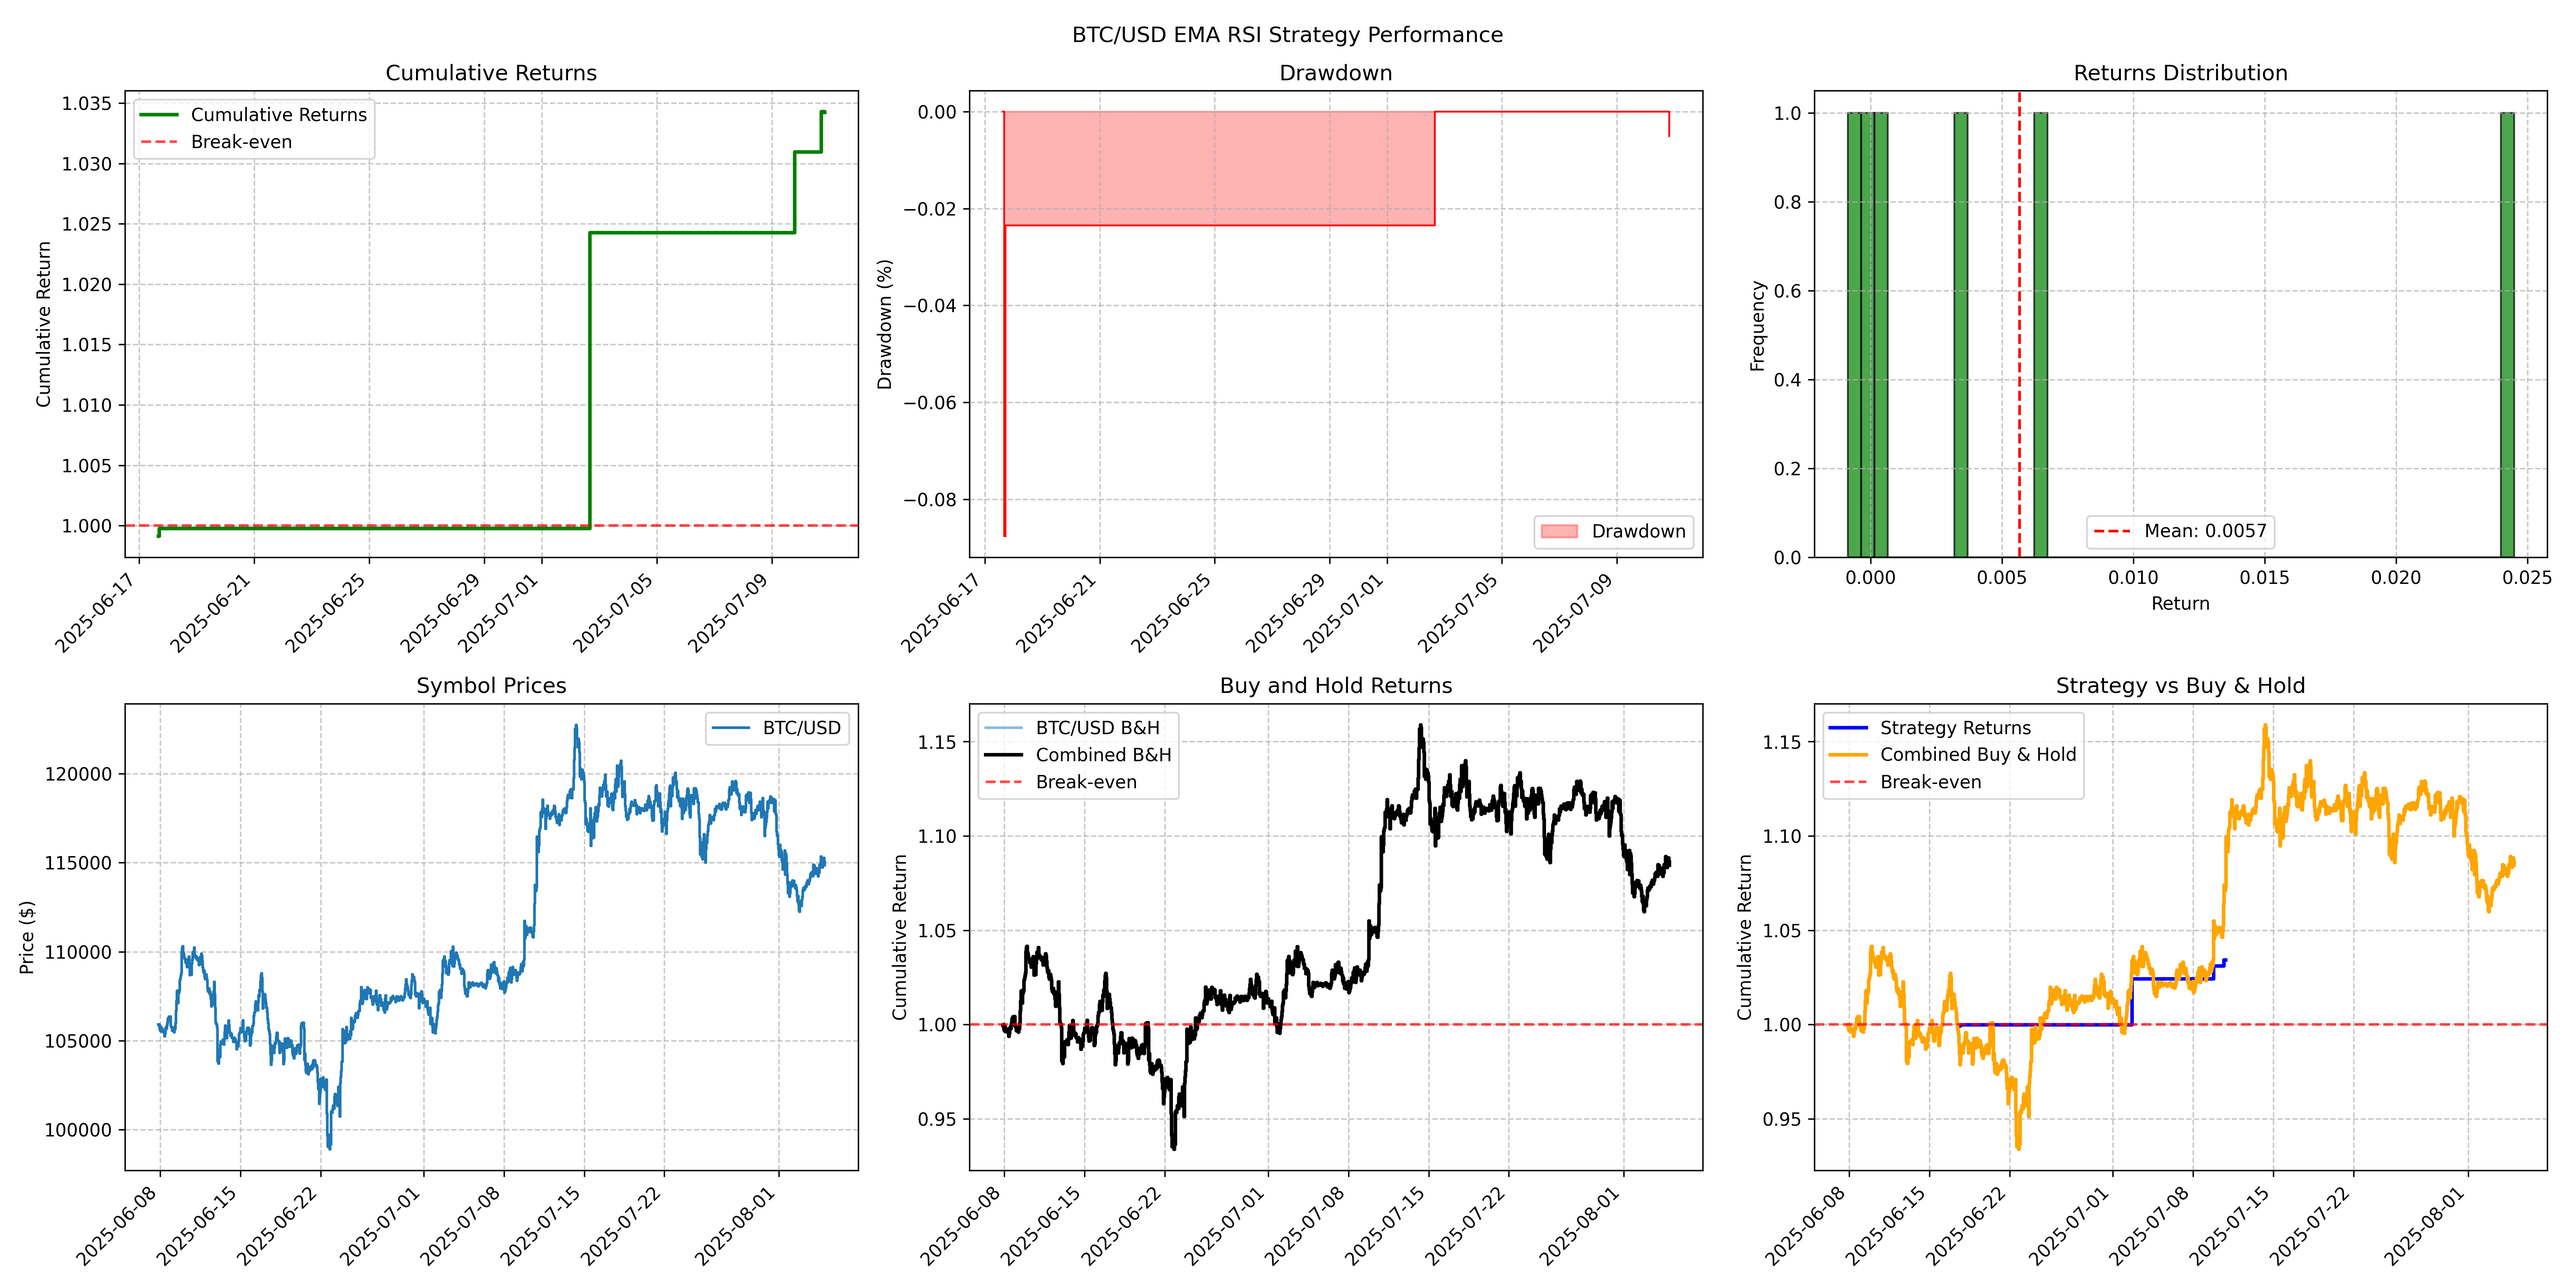
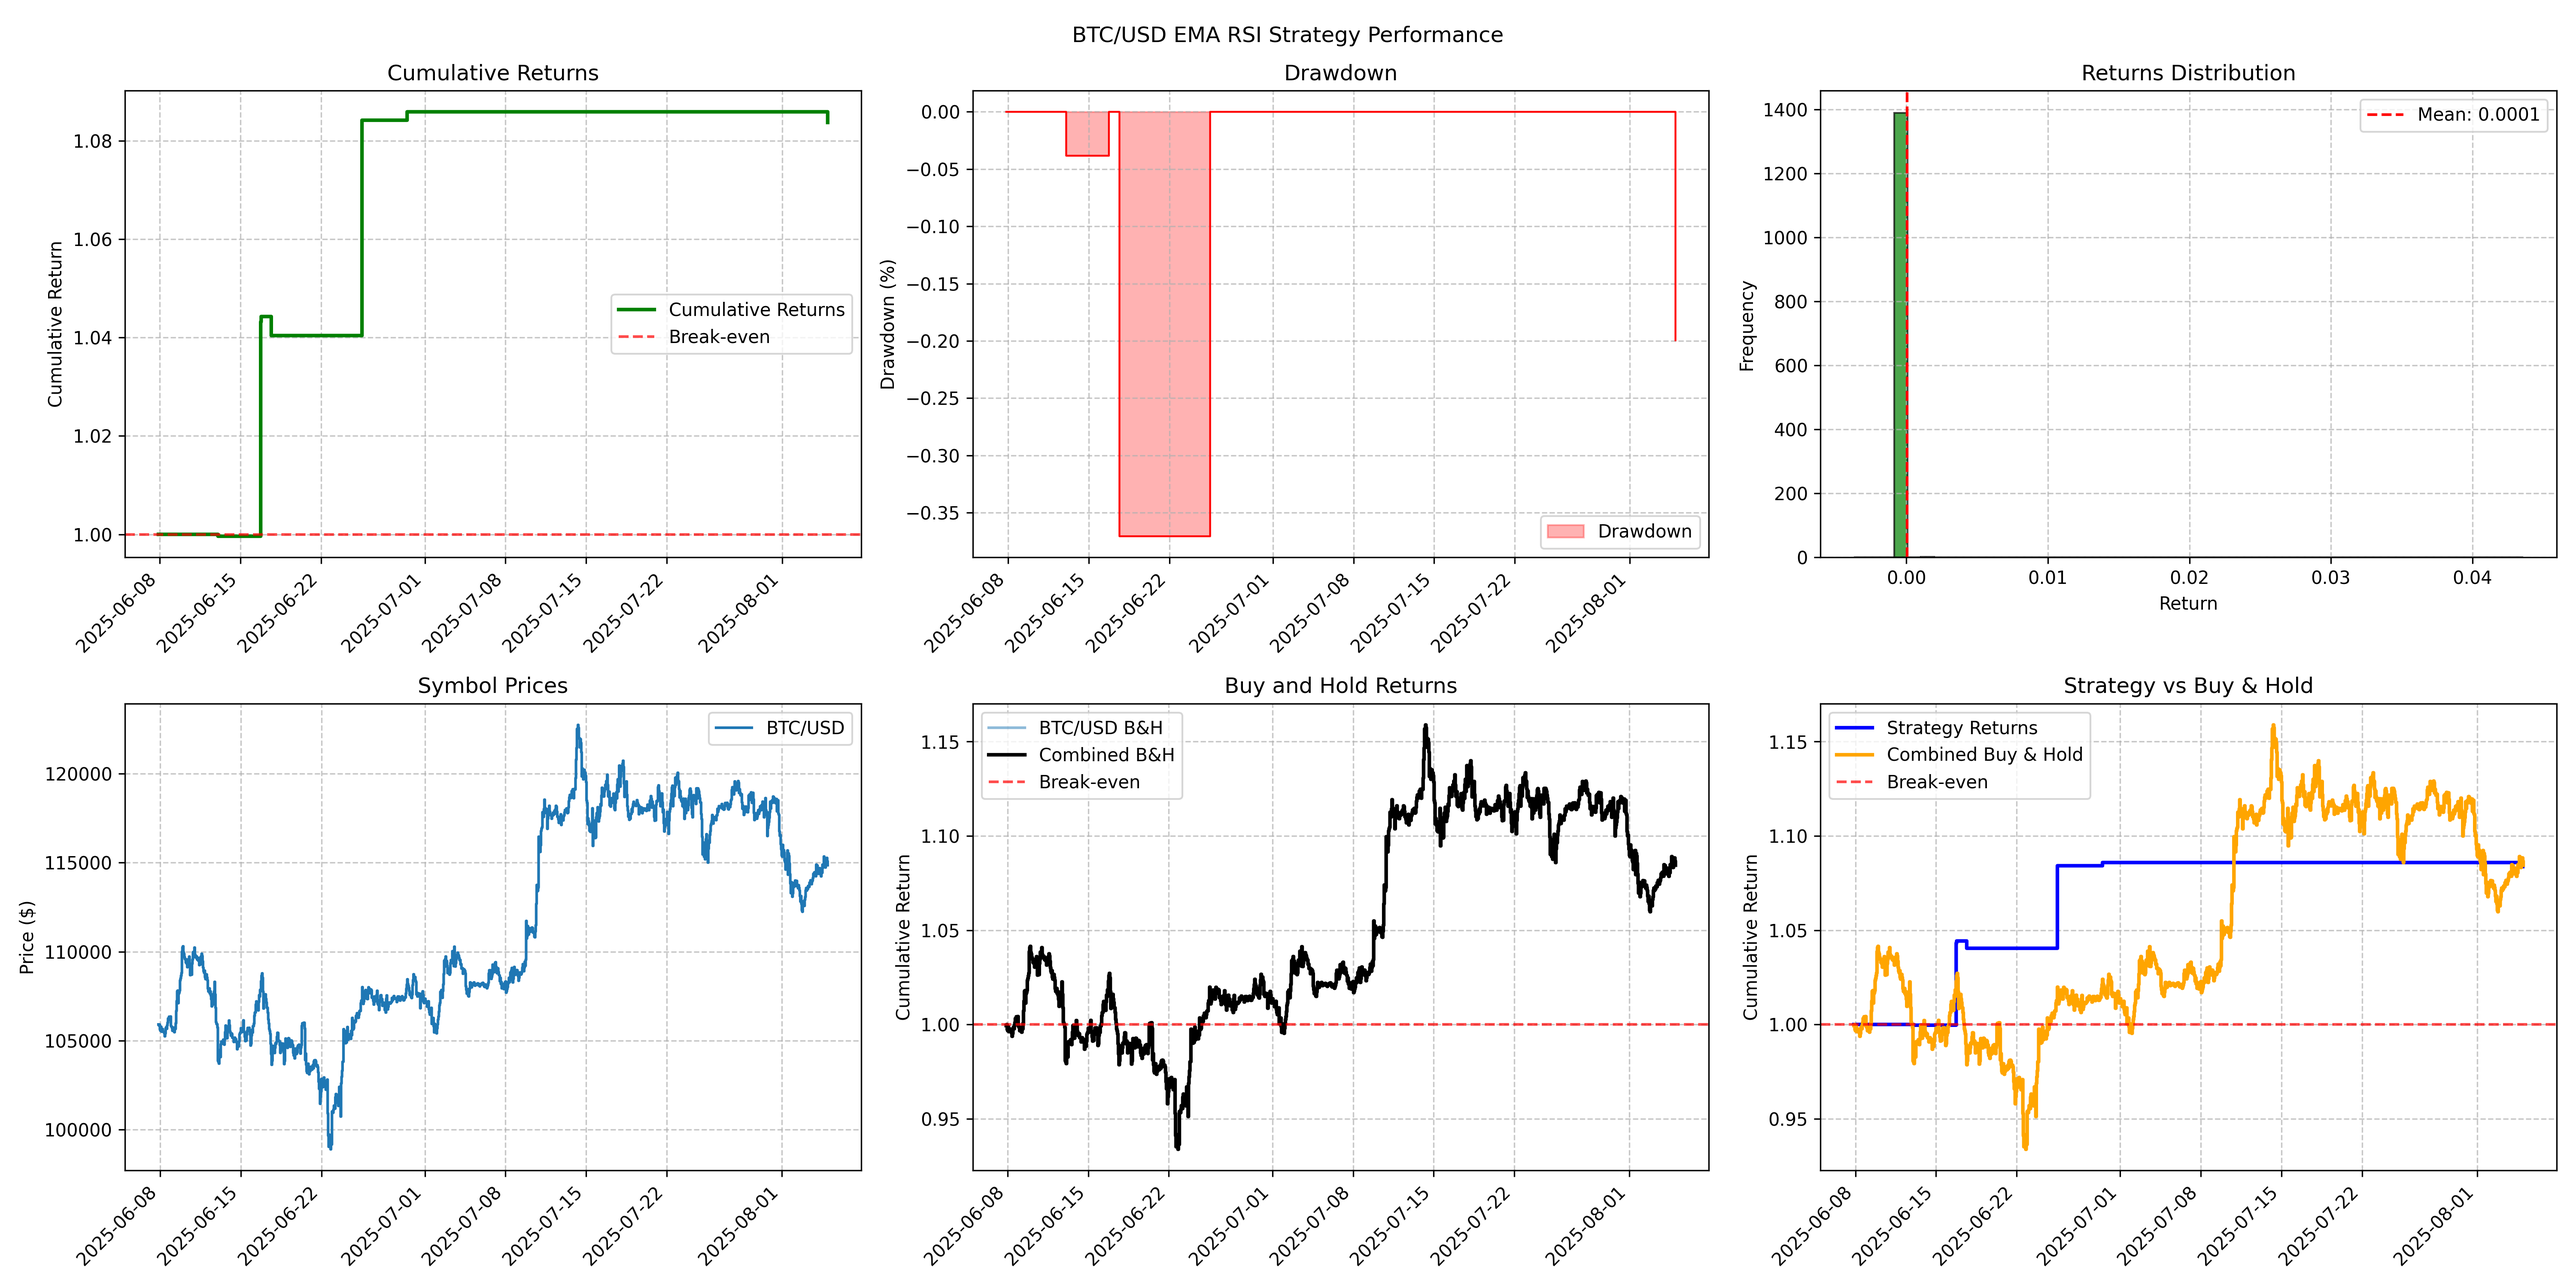
state history fixed

diff --git a/src/backtester.py b/src/backtester.py
@@ -143,7 +143,7 @@ class EventBacktester(ABC):
         self.order_history = pd.DataFrame(
             columns=["symbol", "position", "price", "quantity"])
 
-    def _update_state(self, symbol: str, price: float, quantity: float, order: Position, index: pd.Timestamp, ffill: bool = True):
+    def _update_state(self, symbol: str, price: float, quantity: float, order: Position, index: pd.Timestamp):
         """Update the state of the backtester.
         Initial state is 0.
 
@@ -181,11 +181,7 @@ class EventBacktester(ABC):
         # update portfolio valuation
         self._update_portfolio_value(pd.Series({symbol: price}), index)
 
-        # ffill to get rid of Nans
-        if ffill:
-            self.state_history = self.state_history.ffill()
-
-    def _update_portfolio_value(self, prices: pd.Series, index: pd.Timestamp):
+    def _update_portfolio_value(self, prices: pd.Series, index: pd.Timestamp, ffill: bool = True):
         """Update the portfolio value at the given index using current prices.
 
         Args:
@@ -193,23 +189,24 @@ class EventBacktester(ABC):
             prices (dict[str, float]): Dictionary mapping symbol to current price
         """
         if index not in self.state_history.index:
-            return
-
-        # Get current positions
-        current_state = self.state_history.loc[index]
-        cash = current_state["cash"]
+            self.state_history = pd.concat(
+                [self.state_history, pd.DataFrame(index=[index])])
 
         # Calculate portfolio value: cash + sum of (position * price) for each symbol
-        portfolio_value = cash
+        portfolio_value = self.state_history.iloc[-1]["cash"]
         for symbol in self.active_symbols:
             if symbol in prices:
-                position = current_state[symbol]
+                position = self.state_history.iloc[-1][symbol]
                 portfolio_value += position * prices[symbol]
 
         # Update portfolio value in state history
         self.state_history.loc[index, "portfolio_value"] = portfolio_value
 
-    def _update_history(self, symbol: str, price: float, quantity: float, order: Position, index: pd.Timestamp):
+        # ffill to get rid of Nans
+        if ffill:
+            self.state_history = self.state_history.ffill()
+
+    def _update_order_history(self, symbol: str, price: float, quantity: float, order: Position, index: pd.Timestamp):
         """Update the history of the backtester.
 
         Args:
@@ -238,7 +235,8 @@ class EventBacktester(ABC):
         """
         # update state
         self._update_state(symbol, price, quantity, Position.LONG, index)
-        self._update_history(symbol, price, quantity, Position.LONG, index)
+        self._update_order_history(
+            symbol, price, quantity, Position.LONG, index)
 
     def _place_sell_order(self, symbol: str, price: float, quantity: float, index: pd.Timestamp):
         """
@@ -246,7 +244,8 @@ class EventBacktester(ABC):
         """
         # update state
         self._update_state(symbol, price, quantity, Position.SHORT, index)
-        self._update_history(symbol, price, quantity, Position.SHORT, index)
+        self._update_order_history(
+            symbol, price, quantity, Position.SHORT, index)
 
     def _place_order(self, order: Order, index: pd.Timestamp):
         """Place an order for a given symbol.
@@ -297,11 +296,11 @@ class EventBacktester(ABC):
             if self.get_state()[symbol] != 0:
                 position = self.get_state()[symbol]
                 if position > 0:
-                    self._place_sell_order(
-                        symbol, prices[symbol], abs(position), index)
+                    self._place_order(
+                        Order(symbol, Position.SHORT, prices[symbol], abs(position)), index)
                 else:
-                    self._place_buy_order(
-                        symbol, prices[symbol], abs(position), index)
+                    self._place_order(
+                        Order(symbol, Position.LONG, prices[symbol], abs(position)), index)
 
     def run_backtest(self, test_bars: pd.DataFrame, close_positions: bool = True, disable_tqdm: bool = False):
         """
@@ -356,6 +355,7 @@ class EventBacktester(ABC):
         with logging_redirect_tqdm(loggers=[get_logger()]):
             for index in tqdm(timestamps[start_loc:], desc="Backtesting", leave=False, dynamic_ncols=True, total=len(timestamps[start_loc:]), position=0, disable=disable_tqdm):
                 # perform update step
+                current_bar = full_bars.xs(index, level=1)
                 self.update_step(full_bars, index)
                 if close_positions and (self.market_hours_only and index == last_market_bar) or (not self.market_hours_only and index == timestamps[-2]):
                     logger.info(f"Closing positions at {index}...")
@@ -365,16 +365,15 @@ class EventBacktester(ABC):
 
                 if not self.market_hours_only or is_market_open(index):
                     # make a decision
-                    current_bar = full_bars.xs(index, level=1)
                     order = self.generate_order(current_bar, index)
 
                     # place the order if not None
                     if order is not None:
                         self._place_order(order, index)
 
-                    # Update portfolio value with current close prices
-                    current_close_prices = current_bar.loc[:, "close"]
-                    self._update_portfolio_value(current_close_prices, index)
+                # Update portfolio value with current close prices
+                current_close_prices = current_bar.loc[:, "close"]
+                self._update_portfolio_value(current_close_prices, index)
 
         # return the state history
         return self.get_state_history()
@@ -428,8 +427,9 @@ class EventBacktester(ABC):
             int).diff().ne(0).cumsum().min()
 
         # calculate percentage of time in market. meaning, the percentage of time that the portfolio was not empty
+        # count the number of non-zero symbols
         time_in_market = (
-            state_history["portfolio_value"] != 0).sum() / len(state_history)
+            state_history[self.active_symbols].sum(axis=1) != 0).sum() / len(state_history)
 
         # compare to buy and hold (prices)
         all_cum_returns = self.get_buy_and_hold_returns()
@@ -857,8 +857,10 @@ class EventBacktester(ABC):
             ['Largest Loss', f"{performance['largest_loss']*100:.2f}%"],
             ['Start Value', f"${performance['start_portfolio_value']:.2f}"],
             ['End Value', f"${performance['end_portfolio_value']:.2f}"],
-            # ['Min Value', f"${performance['min_portfolio_value']:.2f}"],
-            # ['Max Value', f"${performance['max_portfolio_value']:.2f}"],
+            ['Min Portfolio Value',
+                f"${performance['min_portfolio_value']:.2f}"],
+            ['Max Portfolio Value',
+                f"${performance['max_portfolio_value']:.2f}"],
             ['Max Consecutive Wins', f"{performance['max_consecutive_wins']}"],
             ['Max Consecutive Losses',
                 f"{performance['max_consecutive_losses']}"],
@@ -869,13 +871,14 @@ class EventBacktester(ABC):
 
         # Create table
         table = ax_table.table(cellText=table_data[1:], colLabels=table_data[0],
-                               cellLoc='left', loc='center',
+                               cellLoc='left', loc='upper center',
                                colWidths=[0.6, 0.4])
 
         # Style the table
+        cell_height = 1.7
         table.auto_set_font_size(False)
         table.set_fontsize(9)
-        table.scale(1, 2)
+        table.scale(1, cell_height)
 
         # Color header row
         for i in range(len(table_data[0])):
@@ -906,7 +909,7 @@ class EventBacktester(ABC):
         # Style the second table
         config_table.auto_set_font_size(False)
         config_table.set_fontsize(9)
-        config_table.scale(1, 2)
+        config_table.scale(1, cell_height)
 
         # Color header row
         for i in range(len(config_table_data[0])):

diff --git a/examples/ema_rsi.py b/examples/ema_rsi.py
@@ -78,16 +78,16 @@ if __name__ == "__main__":
     bars = download_crypto_bars(symbols, start_date=datetime(
         2024, 1, 1), end_date=datetime.now() - timedelta(minutes=15), timeframe=TimeFrame.Hour)
 
-    # symbols = ["DUK", "NRG"]
-    # bars = download_bars(symbols, start_date=datetime(
-    #    2024, 1, 1), end_date=datetime.now() - timedelta(minutes=15), timeframe=TimeFrame.Hour)
+    symbols = ["DUK", "NRG"]
+    bars = download_bars(symbols, start_date=datetime(
+        2024, 1, 1), end_date=datetime.now() - timedelta(minutes=15), timeframe=TimeFrame.Hour)
     # split the bars into train and test
     train_bars, test_bars = split_multi_index_bars_train_test(
         bars, split_ratio=0.9)
 
     # create the backtester
     backtester = EmaStrategy(
-        symbols, cash=2000, allow_short=False, allow_overdraft=False, min_trade_value=1, market_hours_only=True)
+        symbols, cash=2000, allow_short=True, allow_overdraft=False, min_trade_value=1, market_hours_only=True)
 
     # preload the train bars
     backtester.load_train_bars(train_bars)
